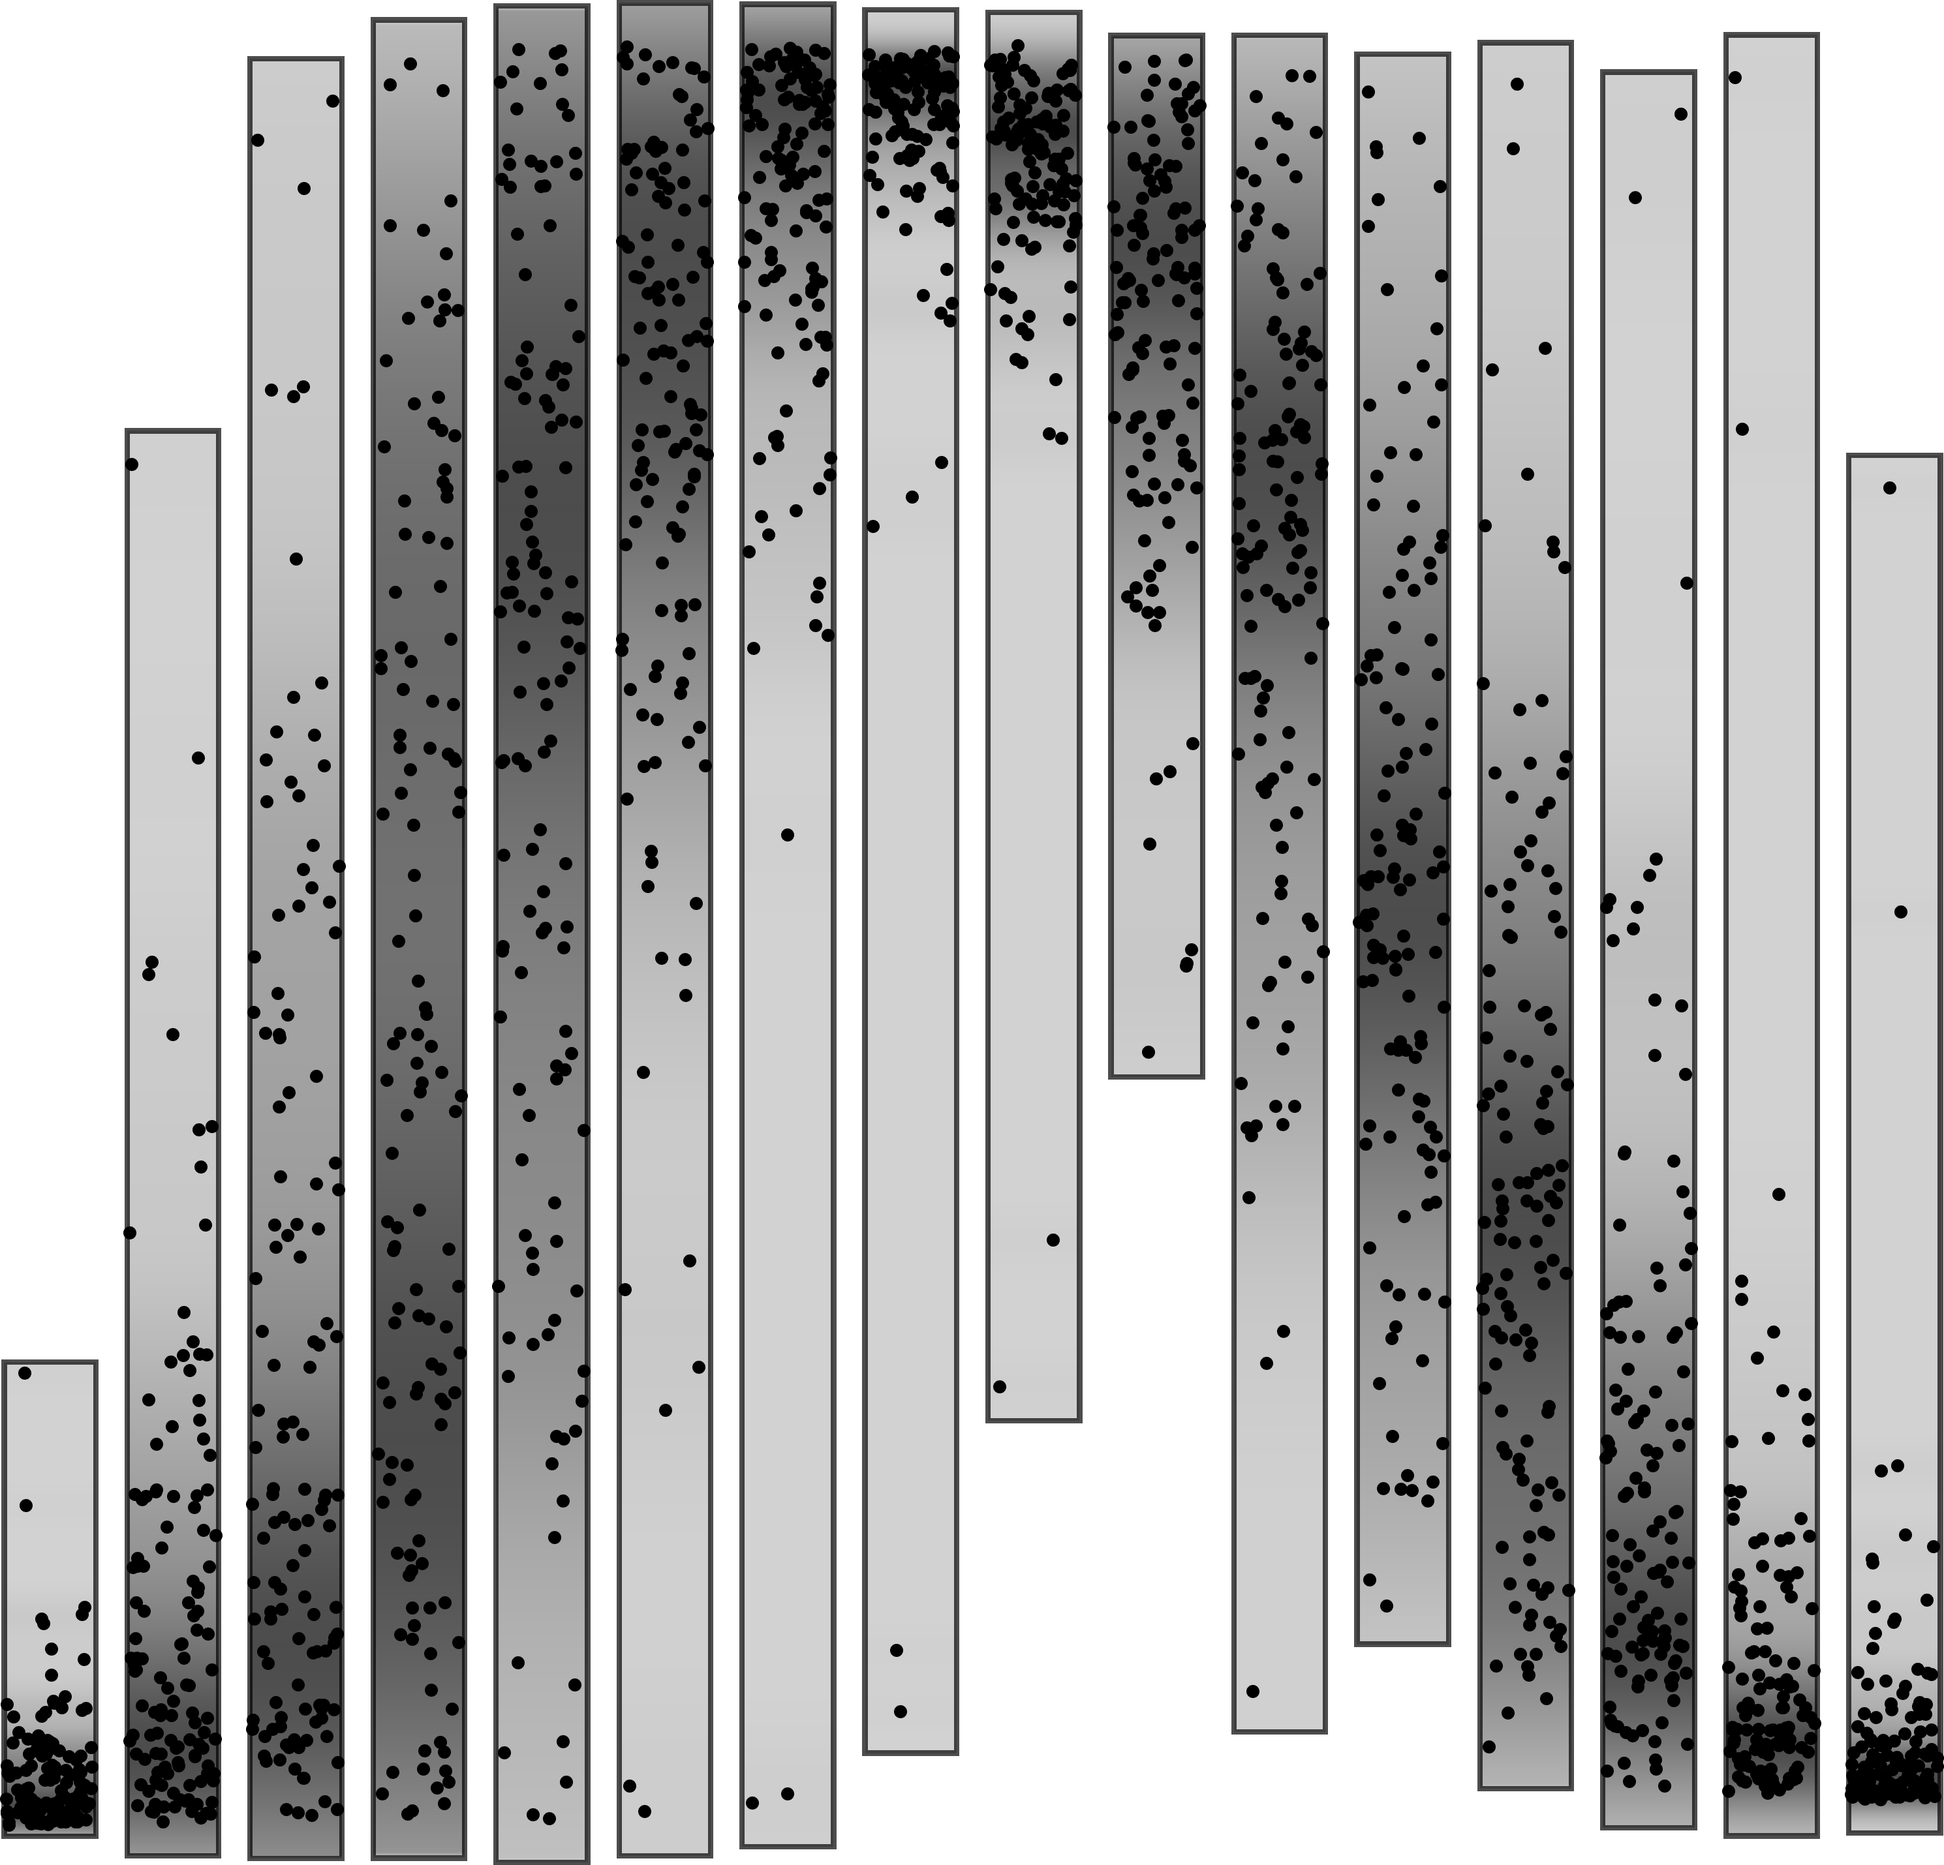
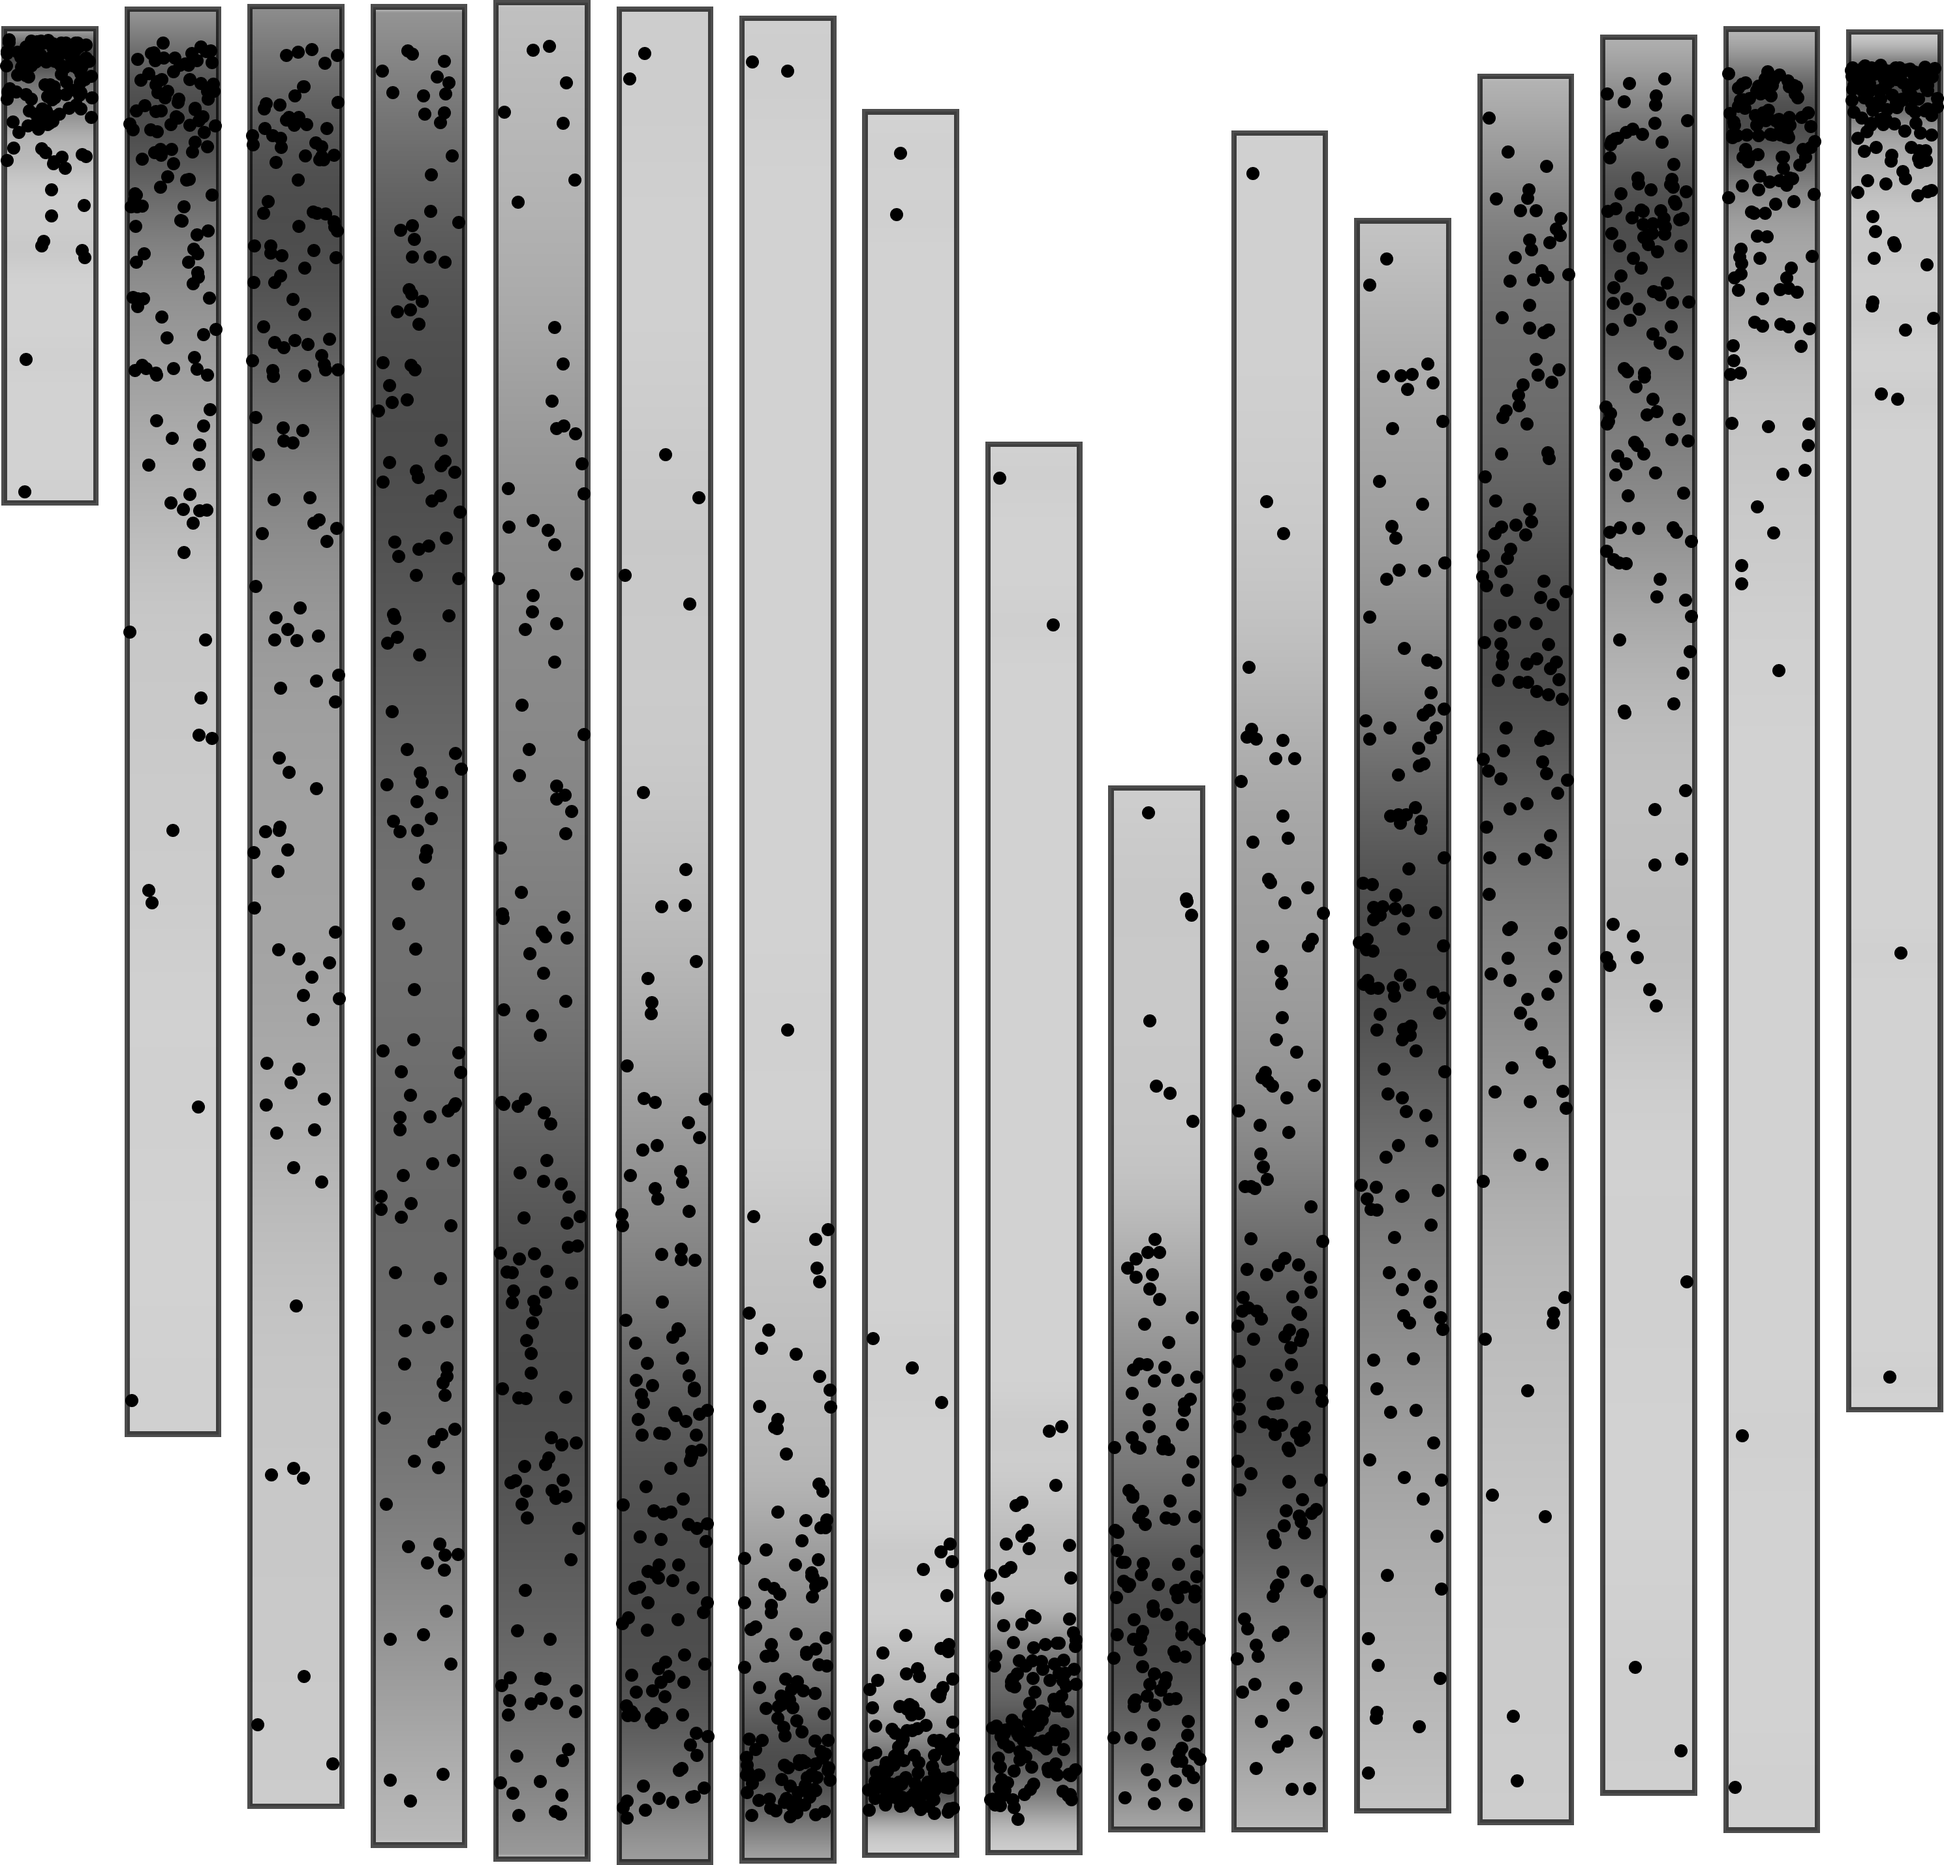
Flip rainbow fig; now matches definition of population

diff --git a/figures/decoherence.tex b/figures/decoherence.tex
@@ -3,11 +3,8 @@
     xtick = {7.75, 6.75, 5.75, 4.75, 3.75, 2.75, 1.75, 0.75},
     minor x tick num = {1},
     xticklabels={$2\pi$, $\frac{7\pi}{4}$, $\frac{3\pi}{2}$, $\frac{5\pi}{4}$, $\pi$, $\frac{3\pi}{4}$, $\frac{\pi}{2}$, $\frac{\pi}{4}$},
-    ytick={-0.96,0.96},
-    minor y tick num = 4,
-    yticklabels={$\ket{0}$, $\ket{1}$},
-    xlabel = {Integrated pulse area (relative to $\vb{d}$)},
-    ylabel = {Population}
+    xlabel = {Integrated pulse angle},
+    ylabel = {Population ($\rho_{00}$)}
     ]
     \addplot graphics[xmin=0, xmax=8, ymin=-1, ymax=1] {figures/rainbow.png};
   \end{axis}
